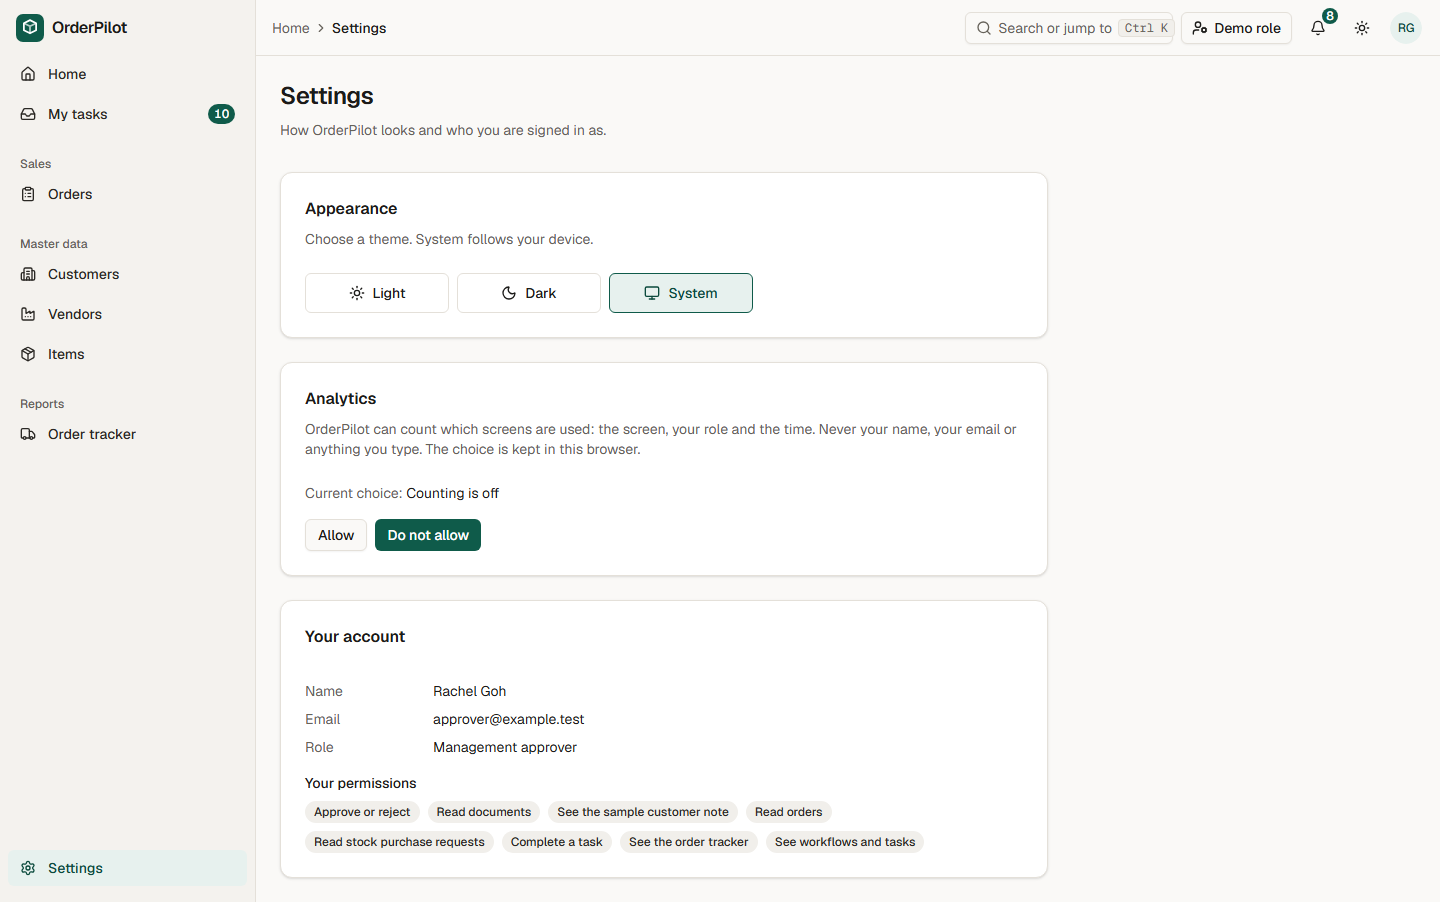
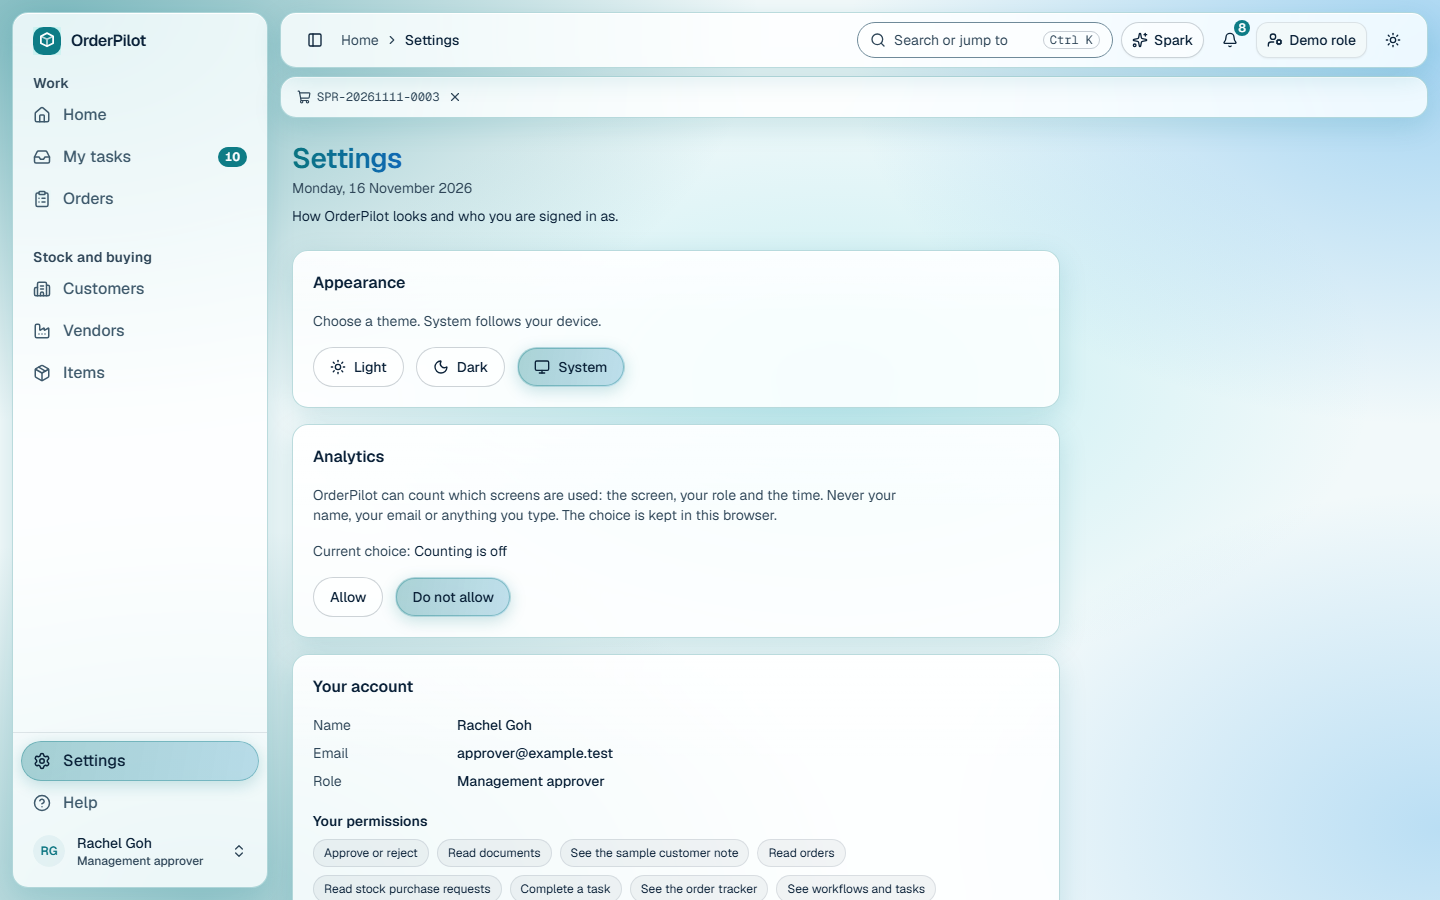
docs: the approver on Spectra in the usage log, traceability and screenshots

diff --git a/docs/ai/ai-usage-log.md b/docs/ai/ai-usage-log.md
@@ -48,6 +48,7 @@ Never paste a key or a Spectra document into a prompt, and keep real data out of
 
 | Date       | Story or task                        | Tool        | What the AI did                                                                                                                                                                                                                                                                                                         | What the person did                                                                             | Prompt                                             |
 | ---------- | ------------------------------------ | ----------- | ----------------------------------------------------------------------------------------------------------------------------------------------------------------------------------------------------------------------------------------------------------------------------------------------------------------------- | ----------------------------------------------------------------------------------------------- | -------------------------------------------------- |
+| 2026-11-16 | UI polish: approver on Spectra       | Claude Code | Reviewed every approver page after the Spectra restyle and fixed the weak spots in area 2 files, with tests                                                                                                                                                                                                             | Asked for the final role; area 2 files and one order page bug                                   | [area2-007](prompts/area2-007-ui-approver.md)      |
 | 2026-11-14 | UI polish: PM and approver pages     | Claude Code | Screenshotted every Product manager and approver page, listed the weaknesses, and fixed the main ones with tests                                                                                                                                                                                                        | Picked Review for Home; left the approver cost to Angelyn                                       | [area2-006](prompts/area2-006-ui-pm-approver.md)   |
 | 2026-11-14 | UI polish: System admin pages        | Claude Code | Screenshotted every System admin page, listed its weaknesses, and fixed the main ones with tests                                                                                                                                                                                                                        | Chose to fix them on a branch, approved pushing it, gave area 4 files back to Angelyn           | [area2-005](prompts/area2-005-ui-admin.md)         |
 | 2026-11-08 | C-2 follow-up: retries with a key    | Claude Code | Proposed the design and three decisions, wrote the tests first, then the table, the replay service and the key on the SPR commands                                                                                                                                                                                      | Chose the three recommendations ("ok"), and chose to ask Richie before changing area 1          | [area2-004](prompts/area2-004-retries.md)          |

diff --git a/docs/ai/prompts/area2-007-ui-approver.md b/docs/ai/prompts/area2-007-ui-approver.md
@@ -1,0 +1,25 @@
+# Area 2, prompt 007: the Management approver on the Spectra design
+
+No story owns this: it is UI polish for the proposal demo, a second pass on the approver after [area2-006](area2-006-ui-pm-approver.md), because pull request 277 (ADR 0054) made Spectra the product's only design and restyled the workflow pages. Azri's prompt is quoted as typed, and the rest is summarised.
+
+## 1. The review
+
+```text
+alright lets now work on the final role's UI
+```
+
+The third role in the role list is the Management approver. The AI rebuilt the Docker stack from `main` after pull request 277, signed in as the approver, screenshotted every page and the SPR, order, customer, vendor and item pages behind them, and recorded console errors and failed requests (there were none). Most of the first pass survived the restyle: Home opens an SPR for review, My tasks says what each SPR buys, and the SPR page shows when it is due and its history.
+
+## 2. The fixes, in area 2's own files
+
+- The SPR page marked a suggested value with a sparkle, the icon Spark, the AI assistant, wears. The value is worked out from stock by a fixed rule, so the mark now uses a calculator, and a test fails if the sparkle comes back.
+- The link back from an order or an SPR said "the task inbox"; the page is called My tasks.
+- A reminder about an SPR now says what the SPR would buy, on its own line, as the task row does. The reminder contract gains an optional `spr`, the same summary a task carries, and the task row's line moved to its own file so both lists share it.
+
+One fix is in area 1's order page, because area 2 caused it. Pull request 273 removed the wording for an SPR approval's action when Home stopped approving in one click, and the new order page still asked for it, so the approver's main button showed its key, "needs.actions.APPROVE_SPR". The wording is back as "Review", and the button opens the SPR, as Home's does, rather than the order's steps page.
+
+Each new test was seen failing against code broken on purpose. A scan of every page the three roles reach found no other raw key.
+
+## 3. Left to their owners
+
+Home's "Needs you" rows, the Home timeline's "past its usual time" beside "due in 14 h", the item page's repeated "Qty. on Sales Order" and the menu group for Customers are area 1's; the item and vendor cost the approver cannot see waits for area 4's pull request 272.

diff --git a/docs/requirements-traceability.md b/docs/requirements-traceability.md
@@ -65,6 +65,7 @@ Every feature traces to at least one of the six module requirements. Each row sa
 | GRS visible in the UI                                                                                                                                                                                                                                                  | The common components                                                                                          | Badges, masked fields, audit links, "Requires approval"                                                                                      | P-12           | On its way     |
 | The mock overlay: a task, an SPR decision or a payment confirmed from the home page leaves the inbox and can be undone, with a real audit event each, `meta.mock: true`, no order status changed, and the new `tasks.complete` permission for the six inbox roles only | `apps/api/src/modules/workflows/mock/`, `packages/shared/src/permissions.ts`                                   | `apps/api/test/http/workflow-actions.test.ts` (401, 403 audited, 404, validation, happy path, Undo); `mock-decision-overlay.test.ts`         | P-33 (#119)    | On its way     |
 | An SPR is decided only on its own page, never from a list: Home opens it, and the page shows when it is due, its history (requested, sent to the approvers, the decision) and asks for a comment                                                                       | `useTaskAction.ts`, `SprApprovalPage.tsx`, `SprHistory.tsx`, `workflows.service.ts`                            | `RoleHomePage.test.tsx`, `SprApprovalPage.test.tsx`, `mock-workflow-read-model.test.ts`                                                      | UI polish      | On its way     |
+| A value worked out by a fixed rule is never marked as AI: the SPR page marks a suggested field with a calculator, not the sparkle the AI assistant wears                                                                                                               | `SprFields.tsx`                                                                                                | `SprApprovalPage.test.tsx`                                                                                                                   | UI polish      | On its way     |
 
 ## M3 AI-assisted coding
 
